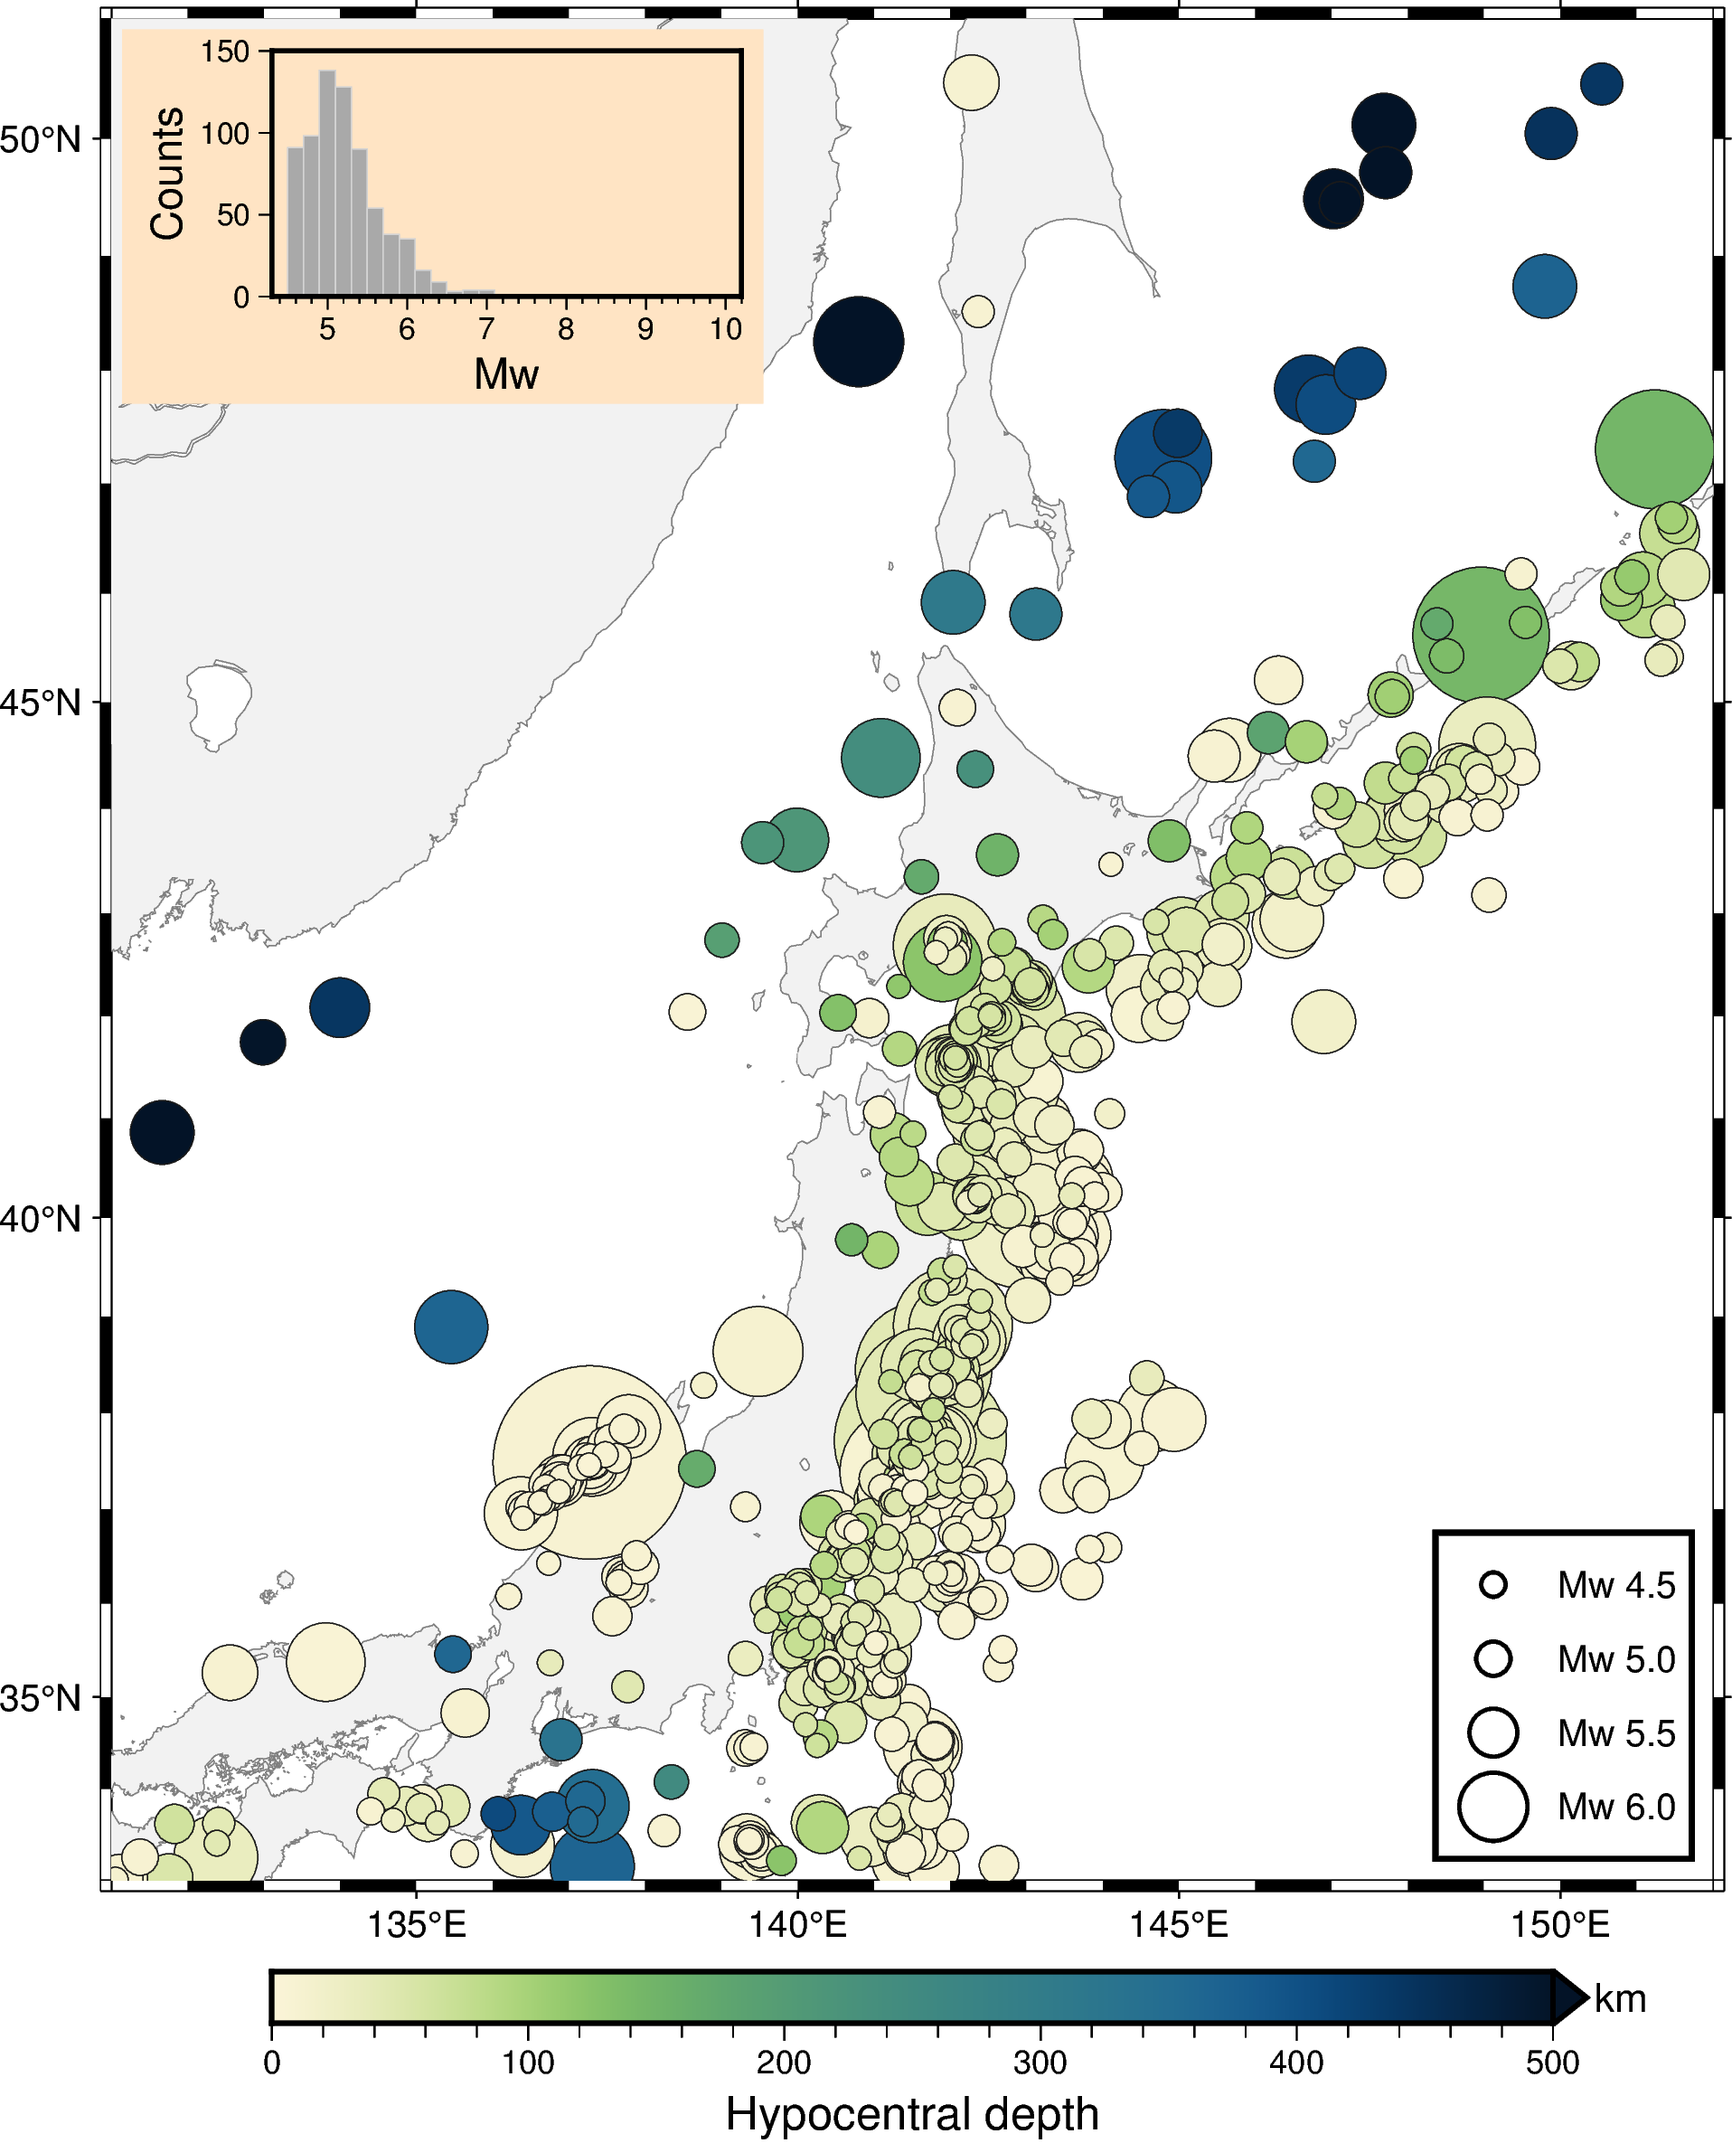
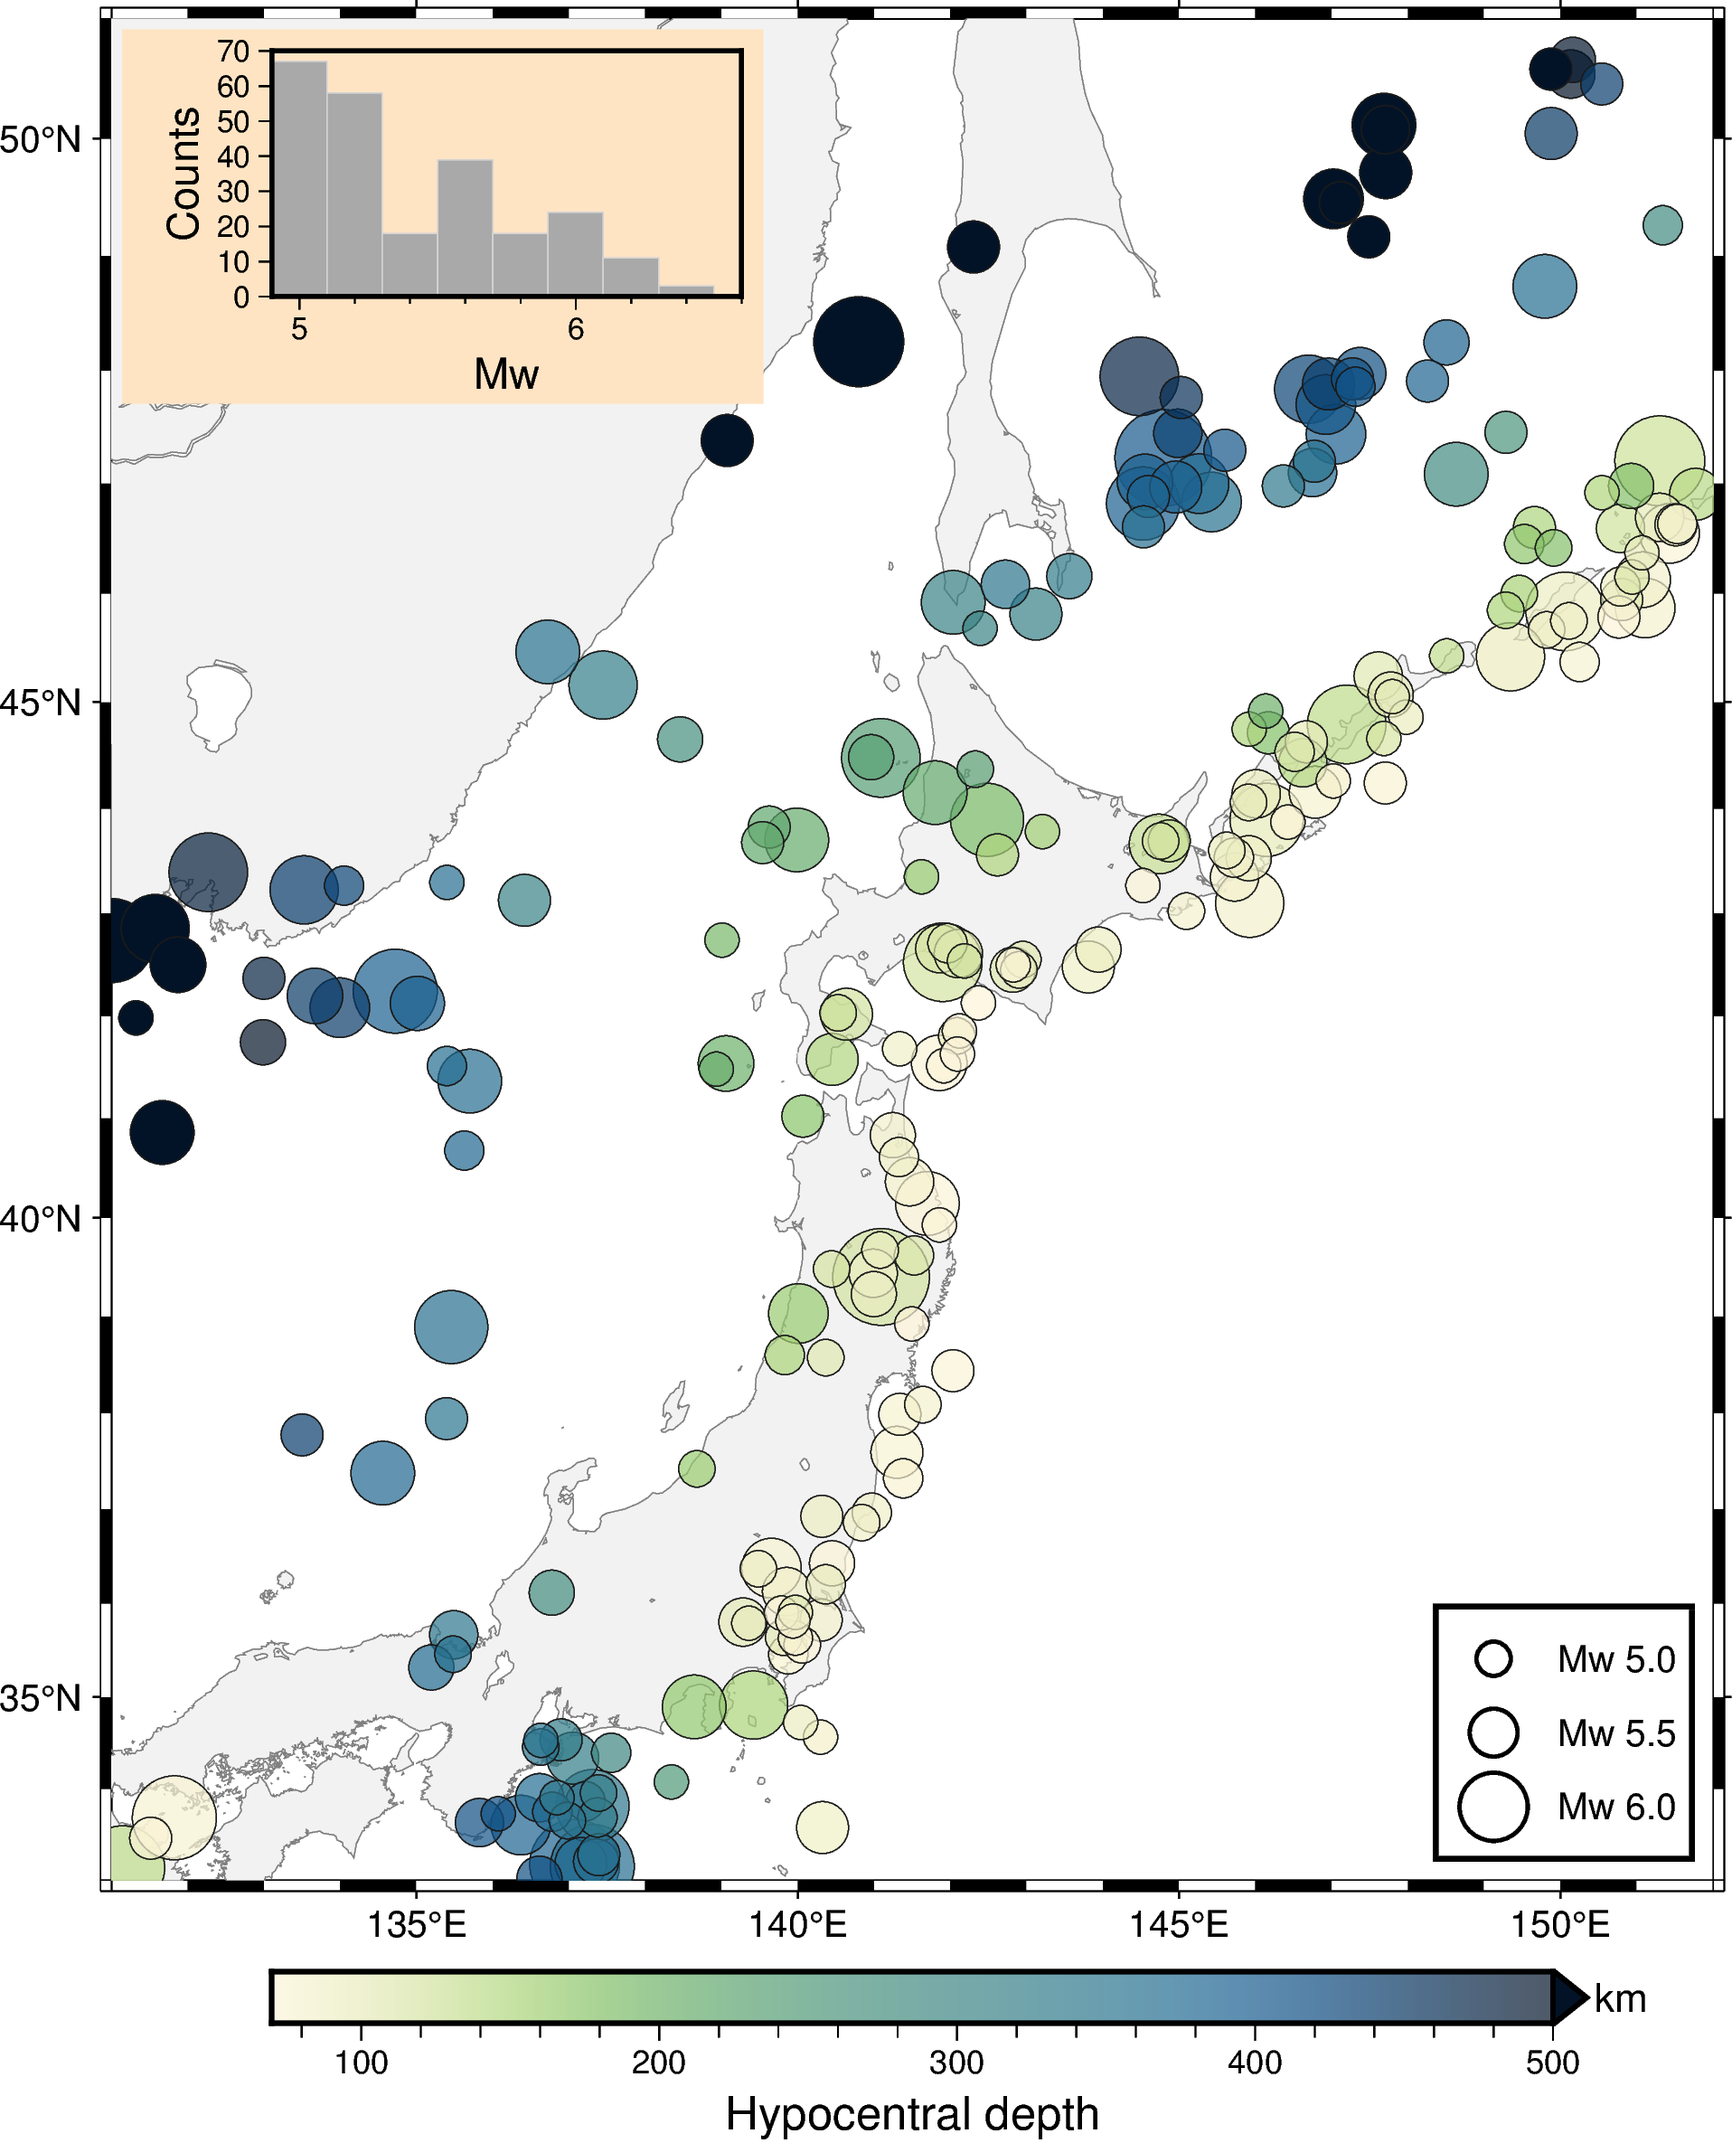
Limit hypocentral depth

diff --git a/Fig4_PyGMt_pandas.py b/Fig4_PyGMt_pandas.py
@@ -7,15 +7,17 @@ import requests
 url = "https://earthquake.usgs.gov/fdsnws/event/1/query"
 params = {
     "format": "csv",
-    "starttime": "2015-01-01",
+    "starttime": "2000-01-01",
     "endtime": "2025-10-30",
+    "mindepth": 70,
     "minlatitude": 33,
     "maxlatitude": 53,
     "minlongitude": 131,
     "maxlongitude": 152,
-    "minmagnitude": 4.5,
-    "maxmagnitude": 10,
+    "minmagnitude": 5,
+    "maxmagnitude": 6.5,
     "orderby": "magnitude",
+    "format": "csv",
 }
 r = requests.get(url, params=params)
 df_eqs = pd.read_csv(io.StringIO(r.text))
@@ -27,7 +29,7 @@ fig.basemap(region=[131, 152, 33, 51], projection="M15c", frame=True)
 fig.coast(land="gray95", shorelines="gray50")
 
 # Plot epicenters with color (hypocentral depth) or size (moment magnitude)
-pygmt.makecpt(cmap="SCM/navia", series=[0, 500], reverse=True)
+pygmt.makecpt(cmap="SCM/navia", series=[70, 500], reverse=True, transparency=30)
 fig.colorbar(frame=["xa100f20+lHypocentral depth", "y+lkm"], position="+ef0.3c")
 fig.plot(
     x=df_eqs.longitude,
@@ -41,7 +43,7 @@ fig.plot(
 
 # Add legend for size-coding
 legend = io.StringIO(
-    "\n".join(f"S 0.4 c {0.01 * 2**m:.2f} - 1p 1 Mw {m}" for m in [4.5, 5.0, 5.5, 6.0])
+    "\n".join(f"S 0.4 c {0.01 * 2**m:.2f} - 1p 1 Mw {m}" for m in [5.0, 5.5, 6.0])
 )
 fig.legend(spec=legend, position="jBR+o0.2c+l2", box=True)
 
@@ -52,7 +54,7 @@ with fig.inset(
     box=pygmt.params.Box(fill="bisque"),
 ):
     fig.histogram(
-        region=[4.3, 10.2, 0, 0],
+        region=[4.9, 6.6, 0, 0],
         projection="X?/?",
         frame=["WSrt", "xa1f0.2+lMw", "yaf+lCounts"],
         data=df_eqs.mag,
@@ -78,20 +80,27 @@ lon_min = 75
 lon_max = 110
 lat_min = 0
 lat_max = 30
-mag_min = 4.5
-mag_max = 10
-start_time = "2015-01-01"
-end_time = "2025-10-30"
 
+lon_min = -90
+lon_max = -30
+lat_min = -50
+lat_max = 10
+
+hd_min = 70
+mag_min = 5
+mag_max = 6.5
+start_time = "2000-01-01"
+end_time = "2025-10-30"
 url = "https://earthquake.usgs.gov/fdsnws/event/1/query"
 params = {
     "format": "csv",
     "starttime": start_time,
     "endtime": end_time,
-    "minlatitude": lat_min,
-    "maxlatitude": lat_max,
-    "minlongitude": lon_min,
-    "maxlongitude": lon_max,
+    "mindepth": hd_min,
+    # "minlatitude": lat_min,
+    # "maxlatitude": lat_max,
+    # "minlongitude": lon_min,
+    # "maxlongitude": lon_max,
     "minmagnitude": mag_min,
     "maxmagnitude": mag_max,
     "orderby": "magnitude",
@@ -105,7 +114,7 @@ fig.basemap(region=[lon_min, lon_max, lat_min, lat_max], projection="M15c", fram
 fig.coast(land="gray95", shorelines="gray50")
 
 # Plot epicenters with color (hypocentral depth) or size (moment magnitude)
-pygmt.makecpt(cmap="SCM/navia", series=[0, 200], reverse=True)
+pygmt.makecpt(cmap="SCM/navia", series=[70, 700], reverse=True, transparency=30)
 fig.colorbar(frame=["xaf+lHypocentral depth", "y+lkm"], position="+ef0.3c")
 fig.plot(
     x=df_eqs.longitude,
@@ -119,40 +128,22 @@ fig.plot(
 
 # Add legend for size-coding
 legend = io.StringIO(
-    "\n".join(f"S 0.4 c {0.01 * 2**m:.2f} - 1p 1 Mw {m}" for m in [4.5, 5.0, 5.5, 6.0])
+    "\n".join(f"S 0.4 c {0.01 * 2**m:.2f} - 1p 1 Mw {m}" for m in [5.0, 5.5, 6.0])
 )
 fig.legend(spec=legend, position="jBR+o0.2c+l2", box=True)
 
-# Plot beachball for Myanmar earthquake on 2025/03/28
-dict_fm = {"strike": 1, "dip": 82, "rake": 174, "magnitude": 7.7}
-fig.meca(
-    spec=dict_fm,
-    scale="1.35c",
-    longitude=95.922,
-    latitude=22.013,
-    depth=10,
-    compressionfill="tomato",
-    extensionfill="cornsilk",
-    pen="0.5p,gray50,solid",
-    offset="+s0.15c",
-    plot_longitude=86,
-    plot_latitude=23,
-    event_name="Mw 7.7 | 10 km",
-    labelbox="white@30",
-)
-
 # Add histogramm for moment magnitude distribution
 with fig.inset(
-    position="jLB+w5.5c/3.5c+o0.1c",
-    margin=(1.2, 0.2, 1, 0.2),
+    position="jRT+w5.5c/3.5c+o0.1c",
+    margin=(1.3, 0.2, 1, 0.2),
     box=pygmt.params.Box(fill="bisque"),
 ):
     fig.histogram(
-        region=[4.3, 10.1, 0, 0],
+        region=[4.9, 6.6, 0, 0],
         projection="X?/?",
-        frame=["WSrt", "xa1f0.2+lMw", "ya20f10+lCounts"],
+        frame=["WSrt", "xa1f0.1+lMw", "yaf+lCounts"],
         data=df_eqs.mag,
-        series=0.2,
+        series=0.1,
         fill="darkgray",
         pen="lightgray",
         histtype=0,
